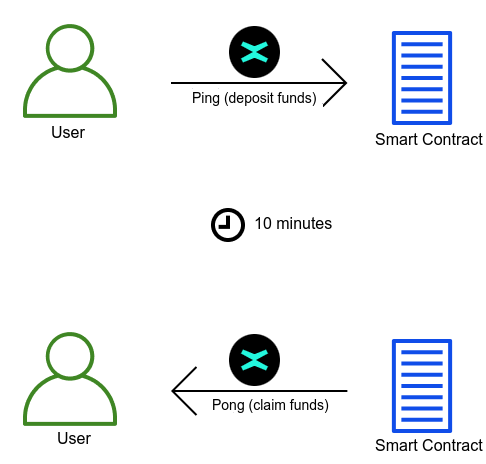
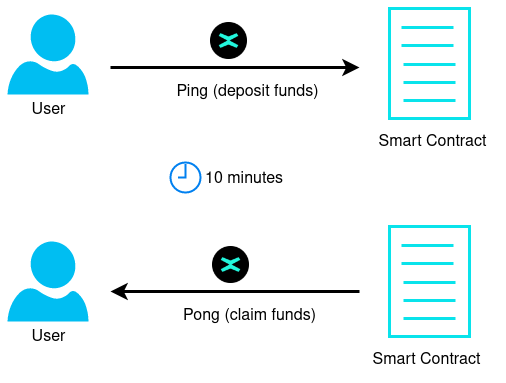
Update "Build a dApp in 15 minutes" page - grammar, removed redundant text, updated diagrams

diff --git a/docs/developers/tutorials/your-first-dapp.md b/docs/developers/tutorials/your-first-dapp.md
@@ -38,7 +38,7 @@ Other rules:
 
 For the web app we'll have two pages:
 
-- The _Sign in_ page - here we can authenticate with ledger, web wallet or with Maiar Wallet
+- The _Sign in_ page - here we can authenticate with ledger, web wallet or with xPortal app
 - The _Dashboard_ page - here we can either ping or pong, if we already deposited, then we will see a countdown timer until the time interval clears out.
 
 [comment]: # (mx-context-auto)
@@ -46,7 +46,7 @@ For the web app we'll have two pages:
 ### **Blockchain Layer (The Backend)**
 
 We will create a smart contract that can handle the deposit (`ping`), claim (`pong`) and status actions (`did_user_ping`, `get_time_to_pong`).
-Let's say that, for now, this smart contract plays the role of an API in a dApp. Also this is where our business logic resides.
+Let's say that, for now, this smart contract plays the role of an API in a dApp. Also, this is where our business logic resides.
 
 The MultiversX _devnet_ is a public test network maintained by our community where any developer can test their smart contracts and dApps in a real world environment.
 
@@ -54,7 +54,7 @@ The MultiversX _devnet_ is a public test network maintained by our community whe
 
 ## **Set up the environment**
 
-Let's set up the evironment for getting your first dapp up and running.
+Let's set up the environment for getting your first dapp up and running.
 
 [comment]: # (mx-context-auto)
 
@@ -111,8 +111,6 @@ git clone https://github.com/multiversx/mx-ping-pong-sc contract
 ### **Build the Smart Contract**
 
 We now have the source code for the smart contract, but we need to compile it into a _binary_ that the MultiversX Virtual Machine can run. The VM can run Web Assembly code, so we need to compile our Rust source code into Web Assembly (WASM).
-
-We now have the source code for the smart contract, but we need to compile it into a _binary_ that the MultiversX (previously Elrond) Virtual Machine can run. The VM can run Web Assembly code, so we need to compile our Rust source code into Web Assembly (WASM).
 
 Run the following command in order to build the rust smart contract into a _wasm file_.
 

diff --git a/pull_request_template.md b/pull_request_template.md
@@ -1,5 +1,3 @@
-<!-- For external contributors: Make sure that you are on a new branch that started from the `external` branch. -->
-
 #### Description of the pull request (what is new / what has changed)
 
 #### Did you test the changes locally ?
